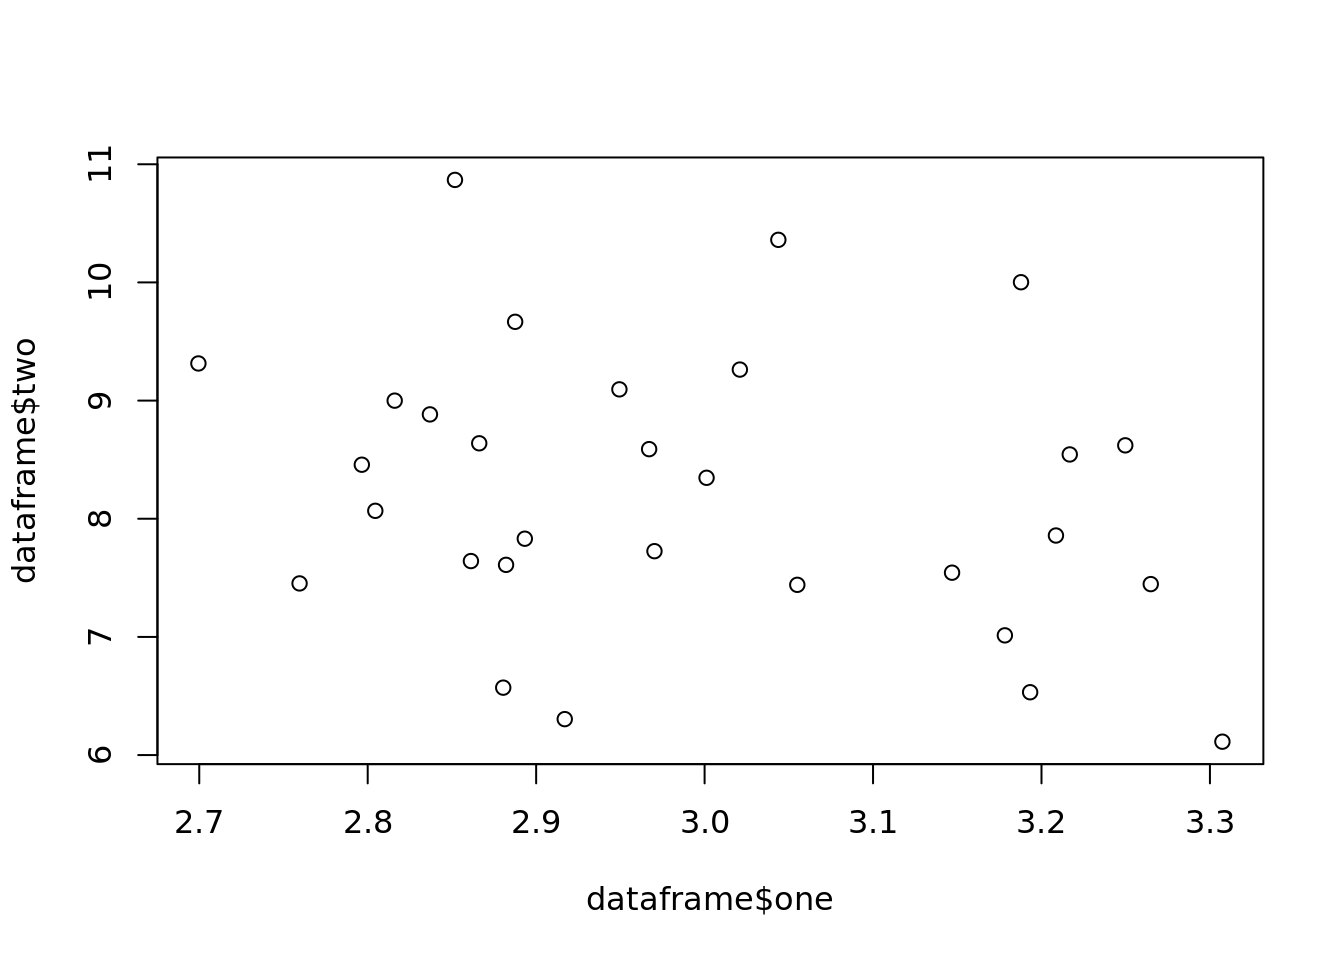
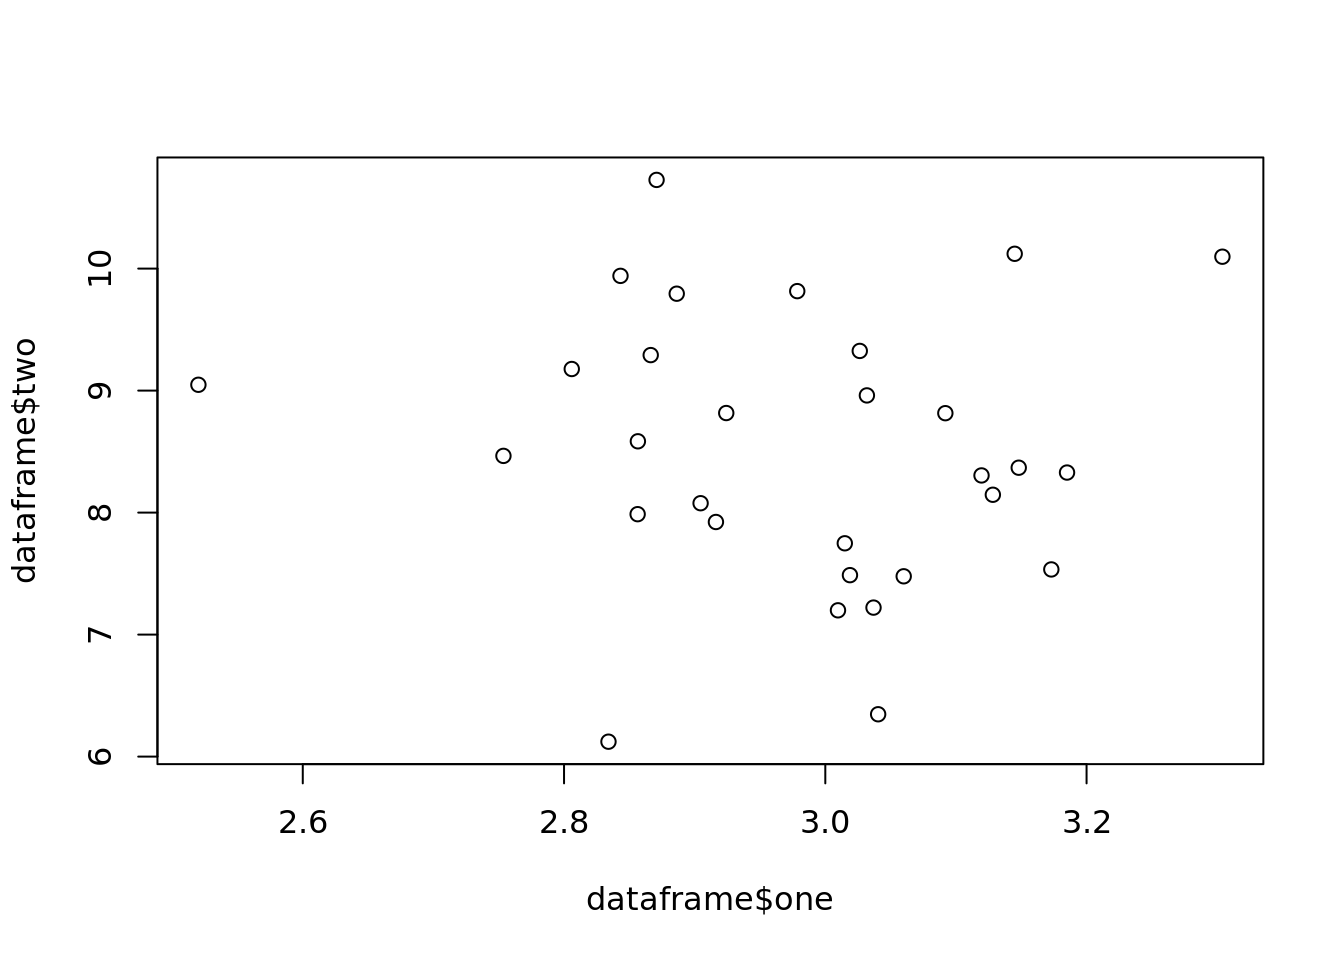
change the Rmd to my folder and render to /docs

diff --git a/docs/index.html b/docs/index.html
@@ -432,28 +432,28 @@ third_column &lt;- runif(30, 1, 8)
 dataframe &lt;- data.frame(first_column, second_column, third_column)
 head(dataframe, 5)</code></pre>
 <pre><code>##   first_column second_column third_column
-## 1     3.178259      7.013082     5.223388
-## 2     2.967068      8.589045     6.939416
-## 3     2.796508      8.457260     7.349705
-## 4     2.880455      6.570507     1.303046
-## 5     2.861281      7.641847     6.645215</code></pre>
+## 1     3.018871      7.487274     3.717373
+## 2     3.185043      8.328207     2.657410
+## 3     2.753606      8.464811     5.902840
+## 4     2.870838     10.726697     6.205861
+## 5     3.026387      9.325030     7.373664</code></pre>
 <p>We can change the name to the dataframe columns</p>
 <pre class="r"><code>names(dataframe) &lt;- c(&quot;one&quot;, &quot;two&quot;, &quot;three&quot;)
 head(dataframe, 5)</code></pre>
-<pre><code>##        one      two    three
-## 1 3.178259 7.013082 5.223388
-## 2 2.967068 8.589045 6.939416
-## 3 2.796508 8.457260 7.349705
-## 4 2.880455 6.570507 1.303046
-## 5 2.861281 7.641847 6.645215</code></pre>
+<pre><code>##        one       two    three
+## 1 3.018871  7.487274 3.717373
+## 2 3.185043  8.328207 2.657410
+## 3 2.753606  8.464811 5.902840
+## 4 2.870838 10.726697 6.205861
+## 5 3.026387  9.325030 7.373664</code></pre>
 <p>Now we could select specific rows or columns by the bracket operator</p>
 <p>dataframe[rows, columns]</p>
 <pre class="r"><code>dataframe[1:4,1:2]</code></pre>
-<pre><code>##        one      two
-## 1 3.178259 7.013082
-## 2 2.967068 8.589045
-## 3 2.796508 8.457260
-## 4 2.880455 6.570507</code></pre>
+<pre><code>##        one       two
+## 1 3.018871  7.487274
+## 2 3.185043  8.328207
+## 3 2.753606  8.464811
+## 4 2.870838 10.726697</code></pre>
 <p>we could even plot one against each other</p>
 <pre class="r"><code>plot(dataframe$one, dataframe$two)</code></pre>
 <p><img src="index_files/figure-html/unnamed-chunk-6-1.png" width="672" /></p>

diff --git a/Carlos/footer.html b/Carlos/footer.html
@@ -1,0 +1,1 @@
+<p>Copyright &copy; 2021 Carlos Sanchez.</p>

diff --git a/Carlos/styles.css b/Carlos/styles.css
@@ -1,0 +1,3 @@
+blockquote {
+  font-style: italic
+}
